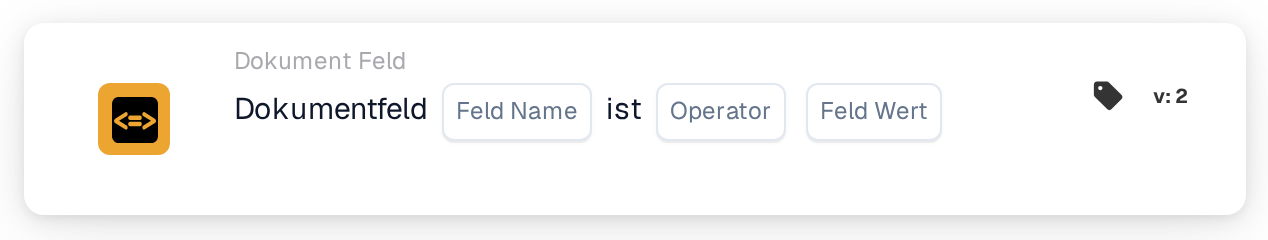
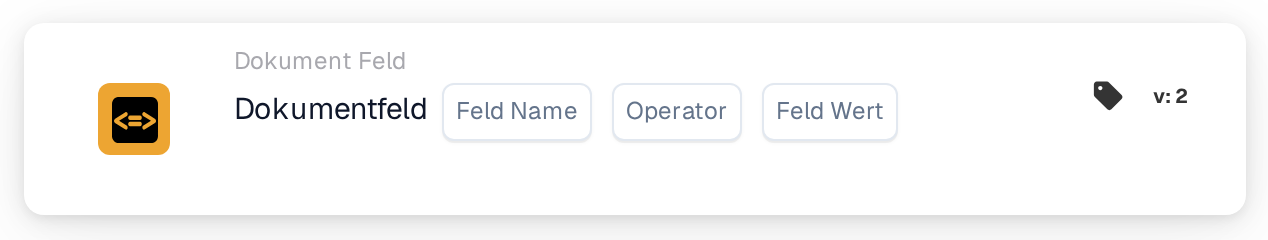
[Documentation_Workflow_Cards] [DRFS-881] document new docfield operators is one of and regex

diff --git a/public_docs/administration-and-setup/workflow/and/document-field/docfield-is.md b/public_docs/administration-and-setup/workflow/and/document-field/docfield-is.md
@@ -28,39 +28,94 @@ Zum Beispiel eine zweite Freigabe für große Rechnungen: Gesamtbetrag größer 
 
 ## **Zweck:**
 
-Diese Workflow-Karte ist darauf ausgelegt, Aktionen zu automatisieren, indem sie den Wert eines angegebenen Dokumentfelds mit einem Referenzwert oder einer Bedingung vergleicht. Sie sorgt für eine dynamische und präzise Entscheidungsfindung in Workflows auf Basis der Validierung von Dokumentdaten.
+Diese Karte vergleicht ein Feld des Dokuments mit einem Wert, den Sie auf der Karte eingeben. Verwenden Sie sie, um Dokumente je nach Feldwert auf unterschiedliche Wege zu schicken, zum Beispiel für eine zweite Freigabe bei großen Rechnungen oder einen eigenen Weg für einige wenige Lieferanten.
+
+Die Karte lautet: **Dokumentfeld** [Field Name] [Operator] [Field Value].
 
 ## **Bestandteile der Karte:**
 
-1. **Feldname**
-   * **Beschreibung:** Gibt den Namen des auszuwertenden Dokumentfelds an.
-   * **Detail:** Dieser muss exakt mit dem Bezeichner des Feldes innerhalb des Dokuments übereinstimmen.
-2. **Operatoren**
-   * **Beschreibung:** Legt die Art des Vergleichs fest, der zwischen dem Feldwert und dem Referenzwert durchgeführt wird.
-   * **Optionen:**
-     * **Gleich (=):** Prüft, ob der Feldwert mit dem Referenzwert übereinstimmt.
-     * **Ungleich (≠):** Stellt sicher, dass sich der Feldwert vom Referenzwert unterscheidet.
-     * **Größer als (>):** Bestätigt, dass der Feldwert größer als der Referenzwert ist.
-     * **Größer oder gleich (≥):** Überprüft, dass der Feldwert gleich oder größer als der Referenzwert ist.
-     * **Kleiner als (<):** Prüft, ob der Feldwert kleiner als der Referenzwert ist.
-     * **Kleiner oder gleich (≤):** Stellt sicher, dass der Feldwert kleiner oder gleich dem Referenzwert ist.
+1. **Field Name**
+   * Das zu prüfende Dokumentfeld, ausgewählt aus den Feldern des Dokumenttyps.
+2. **Operator**
+   * Wie der Feldwert mit dem **Field Value** verglichen wird. Welche Operatoren sinnvoll sind, hängt vom Typ des Feldes ab, siehe **Operatoren** weiter unten.
+3. **Field Value**
+   * Der Vergleichswert. Je nach Operator ist das ein einzelner Wert, eine kommagetrennte Liste oder ein regulärer Ausdruck.
 
-## **Funktionalität:**
+## **Operatoren:**
 
-* **Bedingungsauswertung:** Das System prüft, ob der Wert des Dokumentfelds in Bezug auf seine zugehörige Spalte die durch den Operator und den Referenzwert angegebene Vergleichsbedingung erfüllt.
-* **Ausführung der Aktion:**
-  * **Bedingung erfüllt (True):**\
-    Erfüllt der Wert des Dokumentfelds die angegebene Bedingung (z. B. ist er gleich dem Referenzwert), löst das System die zugehörigen Aktionen aus. Dazu können das Aktualisieren von Datensätzen, das Fortführen des Workflows oder das Erzeugen von Benachrichtigungen gehören.
-  * **Bedingung nicht erfüllt (False):**\
-    Erfüllt der Wert des Dokumentfelds die angegebene Bedingung nicht, werden je nach Workflow-Konfiguration alternative oder keine Aktionen ausgeführt.
+| Operator | Erfüllt, wenn | Feldtypen |
+| --- | --- | --- |
+| **Entspricht** (=) | der Feldwert gleich dem Field Value ist | Text, Zahl, Betrag, Datum |
+| **Ungleich** (≠) | der Feldwert sich vom Field Value unterscheidet | Text, Zahl, Betrag, Datum |
+| **Größer als** (>) | der Feldwert größer als der Field Value ist | Zahl, Betrag, Datum |
+| **Größer oder gleich** (≥) | der Feldwert größer als der Field Value oder gleich ist | Zahl, Betrag, Datum |
+| **Weniger als** (<) | der Feldwert kleiner als der Field Value ist | Zahl, Betrag, Datum |
+| **Weniger oder gleich** (≤) | der Feldwert kleiner als der Field Value oder gleich ist | Zahl, Betrag, Datum |
+| **Ist einer von** | der Feldwert gleich einem Eintrag einer kommagetrennten Liste ist | Text |
+| **Ist keiner von** | der Feldwert keinem Eintrag der Liste entspricht | Text |
+| **Entspricht Regex** | der reguläre Ausdruck im Feldwert gefunden wird | Text, Zahl, Betrag, Datum |
+| **Entspricht nicht Regex** | der reguläre Ausdruck im Feldwert nicht gefunden wird | Text, Zahl, Betrag, Datum |
+
+Boolesche Felder (Checkboxen) werden von dieser Karte nicht unterstützt. Verwenden Sie für sie **Checkbox is checked**.
+
+### Entspricht und Ungleich bei Textfeldern
+
+Text wird ohne Rücksicht auf Groß- und Kleinschreibung verglichen, und ein Leerzeichen zählt wie ein Unterstrich: `Acme Freight` entspricht `acme_freight`. Leerzeichen am Anfang und am Ende werden ignoriert.
+
+### Ist einer von und Ist keiner von
+
+Mit diesen Operatoren prüfen Sie ein Textfeld gegen mehrere Werte auf einmal, zum Beispiel gegen eine Liste von Lieferanten-IDs.
+
+* Geben Sie die Werte als kommagetrennte Liste ein: `40321,40322,40388`.
+* Der Feldwert muss einem Eintrag genau entsprechen. Ein Teilwert ist kein Treffer: `4032` ist nicht in `40321,40322,40388` enthalten, ebenso wenig ein längerer Wert wie `403210`.
+* Groß- und Kleinschreibung spielt keine Rolle, und ein Leerzeichen zählt wie ein Unterstrich. Leerzeichen um die Einträge werden ignoriert, und leere Einträge wie der in `a,,b` werden übersprungen.
+* Für ein Komma innerhalb eines Wertes schreiben Sie `\,`. `Acme Freight\, LLC,Riverside Supply` ist eine Liste mit zwei Einträgen: `Acme Freight, LLC` und `Riverside Supply`.
+* Ein leerer Feldwert steht in keiner Liste. **Ist einer von** ist dann nicht erfüllt, **Ist keiner von** ist erfüllt.
+* Diese Operatoren funktionieren nur bei Textfeldern. Bei einem Zahlen-, Betrags- oder Datumsfeld oder bei einer Liste ganz ohne Einträge (zum Beispiel nur Kommas) endet die Karte mit einem Fehler.
+
+### Entspricht Regex und Entspricht nicht Regex
+
+Verwenden Sie diese Operatoren, wenn ein Muster entscheidet, zum Beispiel "beginnt mit" oder "besteht nur aus Ziffern".
+
+* Der **Field Value** ist ein regulärer Ausdruck in Python-Syntax. Er wird an beliebiger Stelle im Feldwert gesucht: `Freight` passt auf `Acme Freight, LLC`.
+* Mit `^` und `$` prüfen Sie den ganzen Wert: `^33` bedeutet "beginnt mit 33", und `^(40321|40322|40388)$` bedeutet "genau einer dieser Werte".
+* Das Muster unterscheidet Groß- und Kleinschreibung. Beginnen Sie es mit `(?i)`, um sie zu ignorieren: `(?i)freight` passt auch auf `Acme Freight, LLC`.
+* `^` und `$` beziehen sich auf den ganzen Feldwert. Beginnen Sie das Muster mit `(?m)`, damit sie für jede Zeile eines mehrzeiligen Wertes gelten.
+* Das Muster wird genau so verwendet, wie Sie es eingeben. Es wird weder gekürzt noch in Kleinbuchstaben umgewandelt, sodass `\D` (jedes Zeichen, das keine Ziffer ist) seine Bedeutung behält und ein Muster aus einem einzigen Leerzeichen nach einem Leerzeichen sucht.
+* Zeichen mit besonderer Bedeutung in regulären Ausdrücken müssen maskiert werden, damit sie wörtlich gefunden werden: `\(copy\)` passt auf den Text `(copy)`, während `(copy)` eine Gruppe ist, die das Wort `copy` findet.
+* Zahlen, Beträge und Datumswerte werden als der Text verglichen, als der sie gespeichert sind: ein Betrag von 997.60 passt auf `^997\.60$`.
+* Ein leerer Feldwert wird als leerer Text verglichen, daher passt `^$` darauf.
+* Ein ungültiges Muster, zum Beispiel `(20` mit fehlender Klammer, beendet die Karte mit einem Fehler. Dasselbe passiert, wenn ein Muster für einen Wert zu lange braucht (mehr als 0,05 Sekunden), was nur bei schlecht gebauten Mustern wie `(a|aa)+$` vorkommt. In beiden Fällen ist die Karte weder erfüllt noch nicht erfüllt, sodass **Entspricht nicht Regex** nie wegen eines fehlerhaften Musters durchläuft.
+
+## **So arbeitet die Karte:**
+
+* **Feld nicht im Dokument:** Hat das Dokument kein Feld mit dem gewählten Namen, stoppt die Karte und meldet unabhängig vom Operator, dass das Feld nicht gefunden wurde.
+* **Bedingung erfüllt:** Der Workflow wird mit der nächsten Karte fortgesetzt (im Advanced Workflow über den Erfolgsausgang).
+* **Bedingung nicht erfüllt:** Der Workflow stoppt an dieser Karte (im Advanced Workflow nimmt er den Ausgang für eine nicht erfüllte Bedingung).
+* **Fehler:** Ein Operator, der nicht zum Feldtyp passt, ein fehlender Field Value, eine leere Liste oder ein unbrauchbares Muster beenden die Karte mit einem Fehler. Das Kartenprotokoll zeigt den Grund.
 
 ## **Einrichtung und Konfiguration:**
 
-* Der Benutzer wählt den Feldnamen des relevanten Dokuments aus und wählt den Operator aus dem Dropdown-Menü. Anschließend gibt der Benutzer den Referenzfeldwert an, um die Konfiguration abzuschließen.
+Wählen Sie das Feld unter **Field Name** und den Operator unter **Operator** und geben Sie den Wert unter **Field Value** ein. Geben Sie Zahlen und Beträge ohne Währungssymbol und mit Dezimalpunkt ein, zum Beispiel `1000.50`.
+
+Um eine Konfiguration zu testen, ohne auf ein Dokument zu warten, öffnen Sie im Workflow Builder das Kartenmenü, wählen **Test Card**, suchen ein Dokument aus und klicken auf **Test on Document**. Das Kartenprotokoll zeigt den Feldwert, den Operator und das Ergebnis.
+
+## **Beispiele:**
+
+| Ziel | Field Name | Operator | Field Value | Feldwert im Dokument | Ergebnis |
+| --- | --- | --- | --- | --- | --- |
+| Zweite Freigabe für große Rechnungen | Gesamtbetrag | **Größer als** | `10000` | 12500.00 | erfüllt |
+| Einige Lieferanten umleiten | Lieferanten-ID | **Ist einer von** | `40321,40322,40388` | 40322 | erfüllt |
+| | | | | 4032 | nicht erfüllt |
+| Einen Lieferanten mit Komma im Namen auslassen | Lieferantenname | **Ist keiner von** | `Acme Freight\, LLC` | Acme Freight, LLC | nicht erfüllt |
+| Bestellnummern, die mit 33 beginnen | Bestellnummer | **Entspricht Regex** | `^33` | 33012 | erfüllt |
+| | | | | 13301 | nicht erfüllt |
+| Referenz mit Buchstaben | Referenz | **Entspricht Regex** | `\D` | AB-1204 | erfüllt |
+| Rechnungskopien | Rechnungsnummer | **Entspricht nicht Regex** | `\(copy\)` | INV-1204 (copy) | nicht erfüllt |
 
 ## **Fazit:**
 
-Die Workflow-Karte "DocField Comparison Validation" ist ein robustes Werkzeug für die dynamische Dokumentverarbeitung. Indem sie Aktionen auf Basis von Feldvergleichen automatisiert, optimiert diese Karte Workflows, erhöht die Genauigkeit und unterstützt datengestützte Entscheidungen.
+Die Karte prüft ein einzelnes Dokumentfeld gegen einen Wert, eine Liste oder ein Muster. Verwenden Sie **Ist einer von** für feste Wertelisten und **Entspricht Regex** für Muster wie Präfixe oder Formate.
 
 <!-- workflow-card-practical-example-20261021 -->
 

diff --git a/public_docs/administration-and-setup/workflow/masterclass/field-conditions.md b/public_docs/administration-and-setup/workflow/masterclass/field-conditions.md
@@ -79,7 +79,7 @@ Identität: `1c35a5a0-1592-446c-9a61-6abb14d27450`
 
 | Parameter | Typ / Auswahl | Beispiel |
 | --- | --- | --- |
-| `operator` | `eq / neq / gt / ge / lt / le` | `"gt"` |
+| `operator` | `eq / neq / gt / ge / lt / le / cont / not_cont / matches_regex / not_matches_regex` | `"gt"` |
 | `field_name` | `field_name:str` | `"total_amount"` |
 | `field_value` | `field_value:str` | `"1000"` |
 
